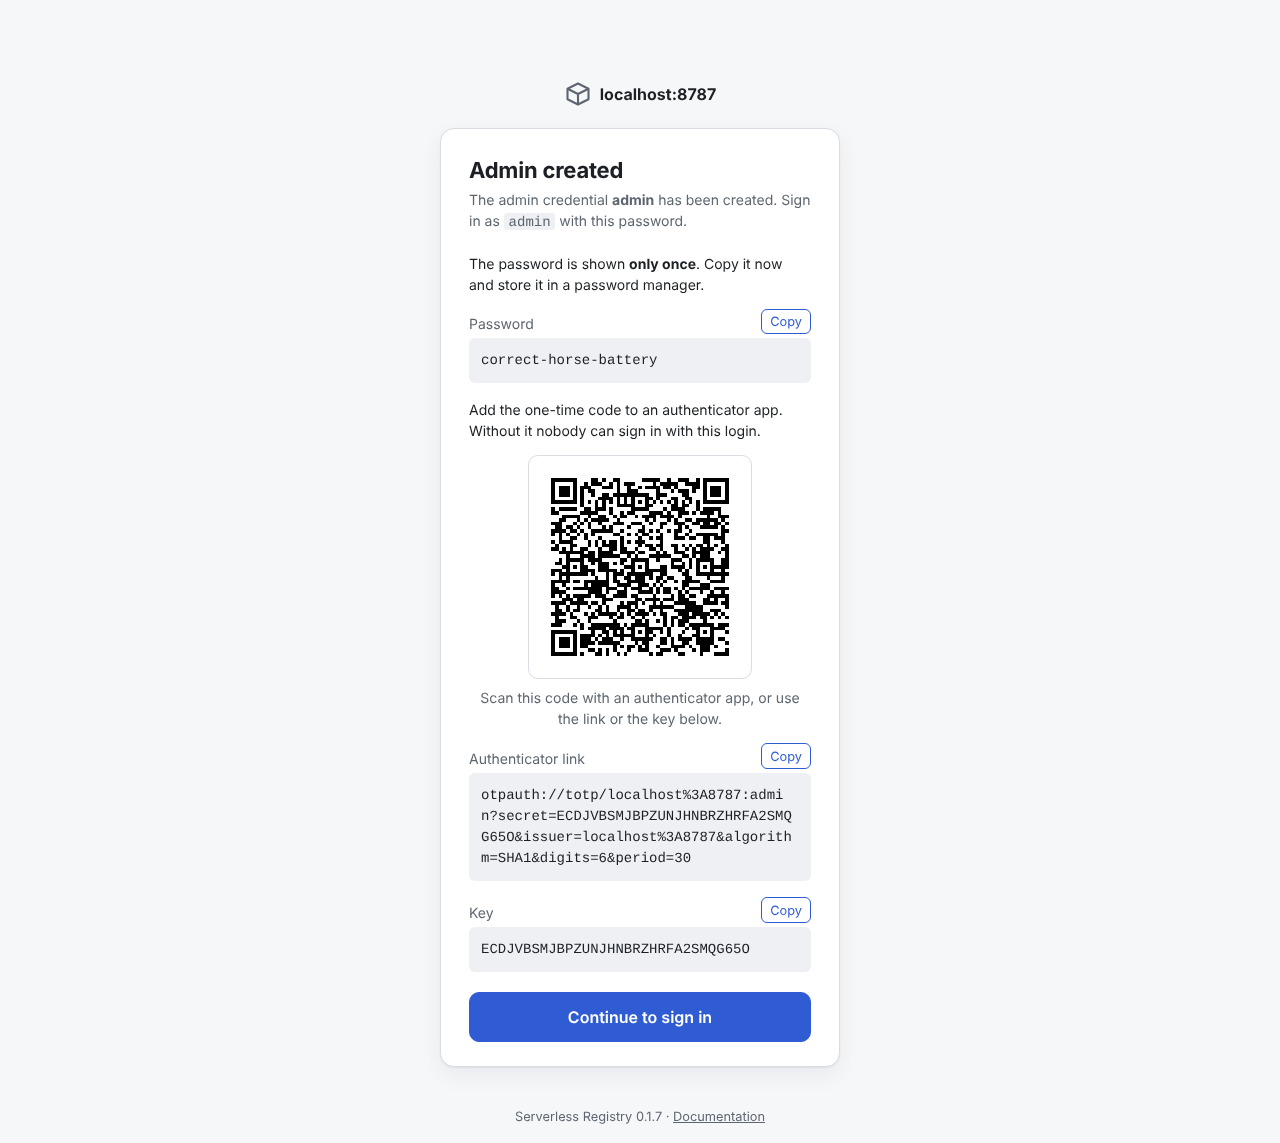
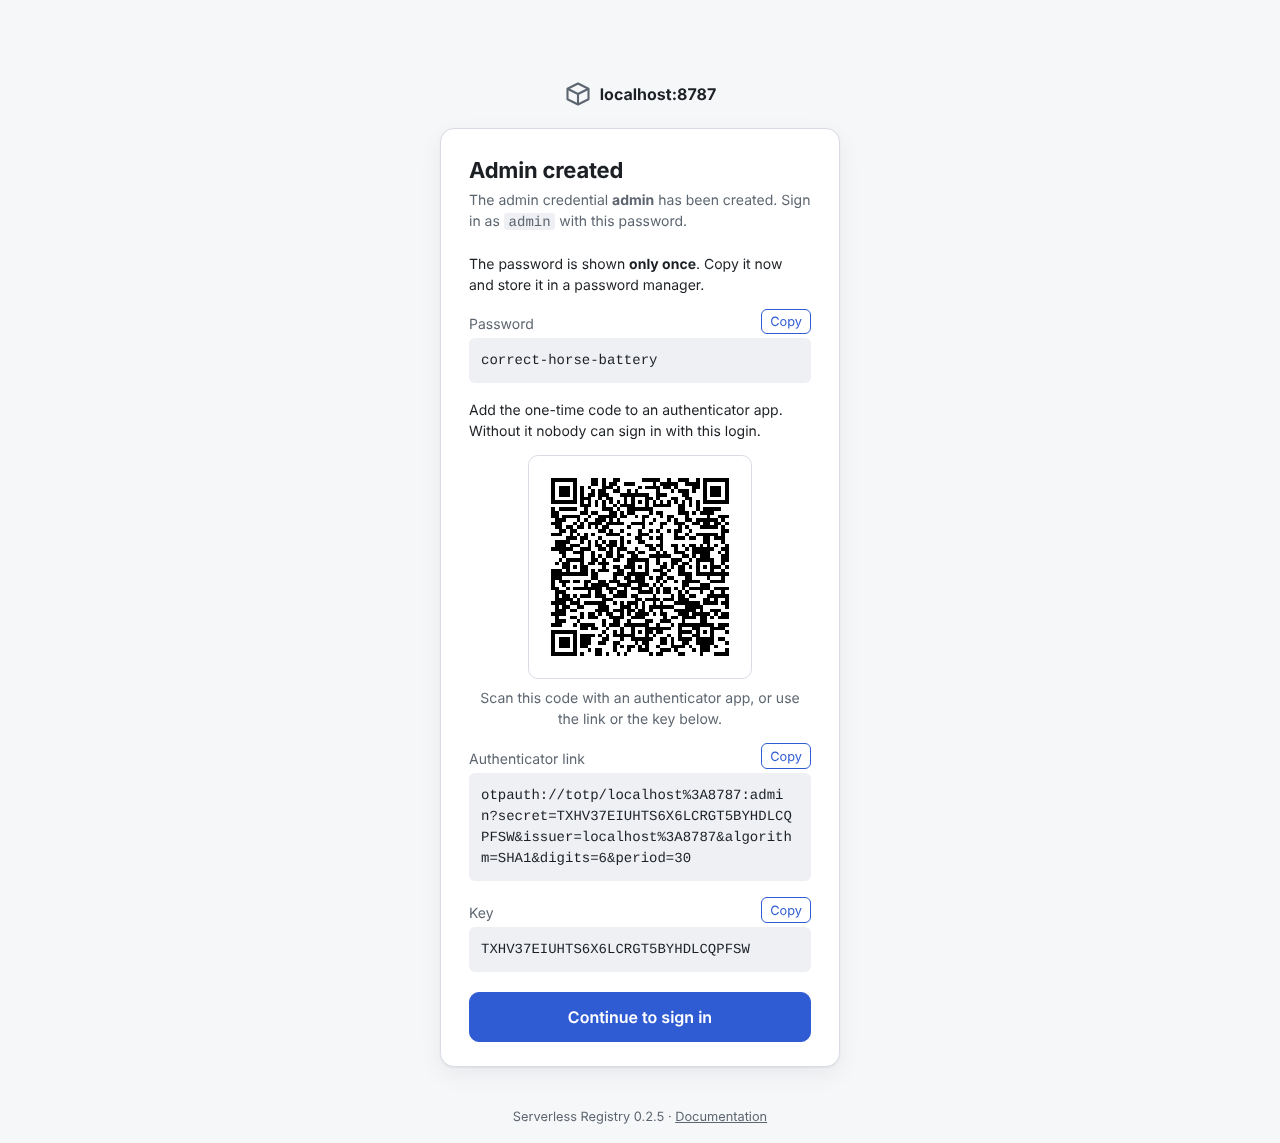
docs(serverless-registry): update for Worker 0.2.5, sreg 0.2.3 and actions 1.0.9
Worker: credential roles with per-role grants and scoped secrets, admin
approvals of yank and delete, MAX_PUBLISH_SCOPES, refreshed screenshots.
sreg: yank, delete, login --yank/--delete/--delete-package, whoami roles.
Actions: role and scope notes for authentication.

Claude-Session: https://claude.ai/code/session_01TECh4UxtXTf9EDSr9EPMjs

diff --git a/content/1.systems/serverless-registry/2.sreg-cli.md b/content/1.systems/serverless-registry/2.sreg-cli.md
@@ -17,7 +17,7 @@ system_url: /systems/serverless-registry
 `sreg` is the only way to publish a version to [Serverless Registry](/systems/serverless-registry). It packages the project,
 uploads the files straight to R2 through presigned URLs and commits the version through the registry's API. Published
 versions are immutable. It also downloads generic files and writes credentials for package managers, including GitHub Actions OIDC tokens.
-Administration (credentials, yank, delete) is done in the registry's web panel.
+It can also yank and delete versions (`sreg yank`, `sreg delete`); the rest of the administration (credentials, packages, settings) is done in the registry's web panel.
 
 ::u-button-group
 :u-button[GitHub Repository]{icon="bxl:github" href="https://github.com/kduma-OSS/serverless-registry-cli" target="_blank"}
@@ -91,7 +91,9 @@ A static token (`--token` / `REGISTRY_TOKEN`, or the credentials of the registry
 | [`sreg generic get`](#sreg-generic-get) | Download and verify files of a generic package version. |
 | [`sreg auth`](#sreg-auth) | Write registry credentials for a package manager, or print them. |
 | [`sreg login`](#sreg-login) | Sign in through the browser and print a short-lived token to export. |
-| [`sreg whoami`](#sreg-whoami) | Show the identity and grants of the current token. |
+| [`sreg whoami`](#sreg-whoami) | Show the roles and grants of the current token. |
+| [`sreg yank`](#sreg-yank) | Yank a version so it is no longer offered for new installs (admin). |
+| [`sreg delete`](#sreg-delete) | Delete a version, or a whole package (admin). |
 | [`sreg version`](#sreg-version) | Show the version of `sreg` and of the registry. |
 
 ### Common behaviour of `publish` commands
@@ -527,7 +529,7 @@ Details of every file format: [`docs/cli-auth.md`](https://github.com/kduma-OSS/
 ### `sreg login`
 
 ```text
-sreg login [--publish <ECO>:<PACKAGE>@<VERSION>]... [--no-browser] [--json]
+sreg login [--publish <ECO>:<PACKAGE>@<VERSION>]... | [--yank <ECO>:<PACKAGE>@<VERSION>]... | [--delete <ECO>:<PACKAGE>@<VERSION>]... [--delete-package <ECO>:<PACKAGE>]... [--no-browser] [--json]
 ```
 
 Signs in through the browser and prints a short-lived token to export, for several commands in a row (`eval "$(sreg login)"`).
@@ -537,6 +539,9 @@ It needs a registry credential with a `login` secret (a password and an optional
 | Option | Description |
 | --- | --- |
 | `--publish <ECO:PACKAGE@VERSION>` | Ask for a **publish** token for this package version (repeatable), e.g. `composer:acme/sdk@1.4.0` or `npm:@acme/sdk@2.0.0`. Without it the token is for downloading. |
+| `--yank <ECO:PACKAGE@VERSION>` | Ask for an **admin** token that may yank this package version (repeatable). Cannot be combined with `--publish` or `--delete`. Requires `sreg` 0.2.3 or newer. |
+| `--delete <ECO:PACKAGE@VERSION>` | Ask for an **admin** token that may delete this package version (repeatable). Cannot be combined with `--publish` or `--yank`. |
+| `--delete-package <ECO:PACKAGE>` | Ask for an **admin** token that may delete this whole package with every version (repeatable). Can be combined with `--delete`. |
 | `--no-browser` | Print the approval page instead of opening it (also `SREG_NO_BROWSER`). |
 
 How it works:
@@ -546,7 +551,8 @@ How it works:
 3. `sreg` polls until you approve or refuse and receives the token. A refusal, an expired session or a timeout fails the command with exit code `1`.
 
 The token is short-lived: a **pull token** (needs a `read` credential) lasts one hour, or longer when you tick "extended validity" (24 hours by default);
-a **publish token** lasts 15 minutes and works only for the listed versions - it is approved only when a `publish` credential's grants allow every one of them.
+a **publish token** lasts 15 minutes and works only for the listed versions - it is approved only when a credential's `publish` grants allow every one of them;
+an **admin token** (`--yank`, `--delete`, `--delete-package`) lasts 15 minutes and may only yank or delete exactly what the page showed - every other route answers `403` - and is approved only by a credential that holds the `admin` role through a `login` secret (a delete is shown with a warning, and a one-time code must be a recent one).
 The ecosystem in `--publish` ends at the first `:` (a Maven package is `group:artifact`) and the version starts after the last `@` (an npm scope starts with one).
 
 The same sign-in is available as `--login` on `sreg auth`, `sreg generic get` and every `publish` command, where the token is used directly:
@@ -575,25 +581,114 @@ The approval page looks like this (see the [Worker](/systems/serverless-registry
 
 Protocol details: [`docs/cli-auth.md`](https://github.com/kduma-OSS/serverless-registry-cli/blob/main/docs/cli-auth.md#--login-a-token-from-the-browser){:target="_blank"}.
 
+### `sreg yank`
+
+```text
+sreg yank <ECO> <NAME> <VERSION> [--oidc [--oidc-project <P>] | --login]
+```
+
+Yanks a version: it disappears from dependency resolution and is no longer offered for new installs, but its files stay downloadable,
+so existing lockfiles keep working. Needs a credential with the `admin` role (an `admin` token, or one of the ways below).
+Requires `sreg` 0.2.3 or newer.
+
+| Argument / option | Description |
+| --- | --- |
+| `<ECO>` | `composer`, `npm`, `cargo`, `nuget`, `generic`, `swift` or `maven`. |
+| `<NAME>` | Package name as in the registry. |
+| `<VERSION>` | The version to yank. |
+| `--oidc`, `--oidc-project` | Authenticate with a GitHub Actions OIDC token. `_` lets the registry find the project from the repository, an `admin` credential included. |
+| `--login` | Sign in through the browser and approve this one yank ([`sreg login`](#sreg-login)). |
+
+```text
+$ sreg yank composer acme/sdk 1.2.1
+Yanked composer acme/sdk 1.2.1; it is no longer offered for new installs.
+
+$ sreg yank composer acme/sdk 1.2.1      # with a publish-only token
+error: registry returned 403 (forbidden): This credential may not perform this operation.
+```
+
+With `--json` it prints the version as the registry describes it (`eco`, `name`, `version`, `published`, `yanked`, `files`).
+
+### `sreg delete`
+
+```text
+sreg delete <ECO> <NAME> [<VERSION> | --all] [--yes] [--oidc [--oidc-project <P>] | --login]
+```
+
+Deletes a version and its files (the version can be published again), or with `--all` the whole package with every version.
+Needs the `admin` role, like [`sreg yank`](#sreg-yank). Requires `sreg` 0.2.3 or newer.
+
+| Argument / option | Description |
+| --- | --- |
+| `<ECO>`, `<NAME>` | As for `yank`. |
+| `<VERSION>` | The version to delete; or use `--all`. |
+| `--all` | Delete the whole package with every version. |
+| `-y`, `--yes` | Do not ask for confirmation. Without a terminal, `--yes` is required. |
+| `--oidc`, `--oidc-project`, `--login` | As for `yank`; with `--login` the page shows the delete with a warning. |
+
+`sreg` asks for confirmation first (typing the package name for `--all`).
+
+```text
+$ sreg delete composer acme/sdk 1.2.1 < /dev/null
+error: confirmation required but stdin is not a terminal; pass --yes to confirm
+
+$ sreg delete composer acme/sdk 1.2.1 --yes
+Deleted composer acme/sdk 1.2.1; the version can be published again.
+```
+
+Deleting is permanent and consumers' lockfiles pointing at the version stop working. To delete in a pipeline without an admin secret,
+use `--oidc` with an `admin` credential that has a matching `gh` secret, or approve the operation yourself with `--login`:
+
+```text
+$ sreg delete composer acme/sdk 1.2.2 --login --no-browser --yes
+Requesting an admin token to DELETE:
+  composer acme/sdk 1.2.2
+Open this page, sign in and approve:
+  https://packages.example.com/authorize/<session>
+Waiting for the approval (Ctrl-C to cancel)...
+Approved: signed in as admin (admin); the token is valid until 2026-10-29T01:04:07.000Z.
+Deleted composer acme/sdk 1.2.2; the version can be published again.
+```
+
 ### `sreg whoami`
 
 ```text
 sreg whoami
 ```
 
-Shows the identity of the current token: the project, its kind and its grants (`GET /api/v1/whoami`). Useful to check that a token works and what it may do.
+Shows the identity of the current token: the project, the roles the token may use and the grants of each role (`GET /api/v1/whoami`).
+A token that has both `read` and `publish` shows a list of grants for each role. Useful to check that a token works and what it may do.
 
 ```text
 $ sreg whoami
-Project: shop-frontend
-Kind:    read
-Grants:
+Project: acme-sdk
+Roles:   read, publish
+Read grants:
   ECO       PACKAGE  VERSIONS  TRANSITIVE
-  composer  acme/*   ^1.0      yes
+  composer  acme/*   *         yes
   npm       @acme/*  *         yes
+Publish grants:
+  ECO       PACKAGE  VERSIONS
+  composer  acme/*   *
+  npm       @acme/*  *
+  cargo     acme-*   *
+  generic   tools/*  *
 ```
 
-With `--json`: `{ "project", "kind", "grants": [{ "eco", "package", "versions", "transitive" }] }` (`transitive` only for `read` credentials).
+The token's roles are the credential's roles within the scope of its secret. A login token also lists what it may do: the package versions
+of a publish token, or the operations of a yank or delete token:
+
+```text
+$ sreg whoami      # with the token from sreg login --yank ...
+Project: admin
+Roles:   admin
+Operations (this token may do only these):
+  yank composer acme/sdk 1.0.0
+  yank composer acme/sdk 1.1.0
+```
+
+With `--json`: `{ "project", "kind", "roles", "grants", "access": { "read": [...], "publish": [...] } }` (`kind` is the legacy view; `transitive` only for `read`
+grants), plus `scopes` for a publish login token and `ops` for a yank or delete login token.
 
 ### `sreg version`
 
@@ -606,8 +701,8 @@ Prints the version of `sreg`; with `--registry` (or `REGISTRY_URL`) also the reg
 
 ```text
 $ sreg version
-sreg 0.1.5
-registry 0.1.7 (schema 3, minimum client 0.1.0)
+sreg 0.2.3
+registry 0.2.5 (schema 4, minimum client 0.1.0)
 ```
 
 With `--json`: `{ "clientVersion", "registry": { "version", "minClientVersion", "schemaVersion" }, "compatible" }`.

diff --git a/content/1.systems/serverless-registry/1.worker.md b/content/1.systems/serverless-registry/1.worker.md
@@ -64,20 +64,22 @@ Optional variables (defaults apply while unset):
 | `APPEND_WINDOW_HOURS` | `24` | How long files may be appended to a generic version. |
 | `TOKEN_PREFIX` | empty | Fixed prefix (e.g. `srg_`) for issued tokens, so leaked ones can be found with grep. |
 | `LOGIN_TOKEN_EXTENDED_TTL_HOURS` | `24` | How long a pull token lasts when it is approved with "extended validity" (1 to 720); otherwise one hour. |
+| `MAX_PUBLISH_SCOPES` | `20` | Most package versions one publish login token can approve (1 to 100). |
 | `CHECK_UPDATES` | `true` | Settings page checks GitHub for a newer release once a day. |
 | `R2_BUCKET_NAME` | `serverless-registry` | Bucket name in presigned URLs. |
 
 ## Authentication
 
-Every credential is a project name with exactly one kind, a list of grants and one or more secrets:
+Every credential is a project name with one or more **roles**, a list of grants for each role and one or more secrets:
 
 - `read` - installs packages; its key token is safe to commit into the consumer's repository (`auth.json`, `.npmrc`, ...),
-- `publish` - publishes versions with `sreg`, usually from GitHub Actions; never reads,
-- `admin` - the panel and the administrative API; no grants.
+- `publish` - publishes versions with `sreg`, usually from GitHub Actions; a token that only publishes never reads,
+- `admin` - the panel and the administrative API (including yank and delete); no grants of its own, it sees every package.
 
-A grant is an ecosystem, a package name or `vendor/*` pattern and a version constraint in that ecosystem's syntax
-(`*` for all). `read` grants are transitive by default. Grants can be edited as rows or as text, one per line in the
-shorthand `eco:package[:versions[:transitive]]`.
+Roles can be combined in one credential, so that one project installs and publishes (`read` + `publish`, each with its own grants)
+or an administrator can also install or publish. A grant is an ecosystem, a package name or `vendor/*` pattern and a version
+constraint in that ecosystem's syntax (`*` for all). `read` grants are transitive by default. Grants can be edited as rows or
+as text, one per line in the shorthand `eco:package[:versions[:transitive]]`.
 
 A credential holds one or more **secrets**, each with an optional description:
 
@@ -87,19 +89,27 @@ A credential holds one or more **secrets**, each with an optional description:
 | `login` | A password and, optionally, a one-time code (TOTP) for an authenticator app. Used to sign in to the panel and to approve CLI operations in the browser (below). |
 | `gh` | Trusts a GitHub repository (optionally a ref, workflow and environment) so its Actions jobs authenticate with OIDC, with no stored secret. |
 
-A `publish` credential with a `gh` secret is the recommended setup for CI. See the
+With several roles, every secret has a **scope**: the roles it may use. The `key` you commit into a repository can stay
+`read`-only while the release workflow's `gh` secret is `publish`-only, and only a secret scoped to `admin` administers. Adding a role
+later never widens the secrets the credential already has - they keep the roles they had, and new secrets choose their scope.
+
+![Roles of a credential](/systems/serverless-registry/panel-credential-grants.png)
+
+A `gh` secret scoped to `publish` is the recommended setup for CI. The registry picks the credential by the role the request needs,
+so one repository can install and publish with OIDC. See the
 [deployment guide](https://github.com/kduma-OSS/serverless-registry-worker/blob/main/docs/deployment.md#a-publish-credential-for-github-actions-oidc-no-secret){:target="_blank"}.
 
 ### Logins for people
 
-A `read` or `publish` credential can also hold a `login` secret, so that people use the CLI instead of copying tokens around:
+Any credential can hold a `login` secret, so that people use the CLI instead of copying tokens around:
 [`sreg login`](/systems/serverless-registry/sreg-cli#sreg-login) and the `--login` option open a page of the registry
 (`/authorize/...`), where you sign in (or, when the browser is already signed in, only approve) and the CLI receives a
 short-lived signed token:
 
 - a **pull token** lasts one hour, or `LOGIN_TOKEN_EXTENDED_TTL_HOURS` hours when you tick "extended validity",
-- a **publish token** lasts 15 minutes and works only for the package versions you approved; it is issued only when the
-  credential's grants allow every one of them, and with a one-time code a recent one is required.
+- a **publish token** lasts 15 minutes and works only for the package versions you approved (at most `MAX_PUBLISH_SCOPES` of them); it is issued only when the
+  credential's grants allow every one of them, and with a one-time code a recent one is required,
+- an **admin token** for a [yank or delete](/systems/serverless-registry/sreg-cli#sreg-yank) lasts 15 minutes and may only perform exactly the operations you approved.
 
 Expiring the login secret ends its tokens and browser sessions. The Worker does not limit sign-in attempts - add a
 CloudFlare rate limiting rule for the path starting with `/authorize/`.
@@ -135,12 +145,16 @@ A signed session cookie keeps you signed in for 12 hours.
 ### Approving CLI operations
 
 When a CLI command runs with `--login` (or `sreg login`), the page it prints shows exactly what is requested -
-a pull token, or a publish token for named package versions. Sign in with a `login` secret, or just approve when you are
-already signed in:
+a pull token, a publish token for named package versions, or an admin token to yank or delete them. Sign in with a `login` secret,
+or just approve when you are already signed in:
 
 ![Sign in to approve a CLI operation](/systems/serverless-registry/panel-authorize-signin.png)
 
 ![Approve a publish token for one version](/systems/serverless-registry/panel-authorize-approve.png)
+
+A delete is shown with a warning, and an `admin` credential with a one-time code needs a fresh code to approve it:
+
+![Approve a delete](/systems/serverless-registry/panel-authorize-delete.png)
 
 ### Browsing packages (`read` credentials)
 
@@ -163,20 +177,22 @@ and shows how to install exactly that version.
 
 An admin gets three pages in the header.
 
-**Packages** - the same list with *Reindex* and *Delete* on each row; a package's page also lets you yank or delete its versions.
+**Packages** - the same list with *Reindex* and *Delete* on each row; a package's page also lets you yank or delete its versions. The same operations are available from the CLI with [`sreg yank` and `sreg delete`](/systems/serverless-registry/sreg-cli#sreg-yank).
 
 ![Packages (admin)](/systems/serverless-registry/panel-admin-packages.png)
 
-**Credentials** - every project in a table, plus a *New credential* form that shows the new token once.
+**Credentials** - every project in a table, plus a *New credential* form where you choose the roles, the first secret and the grants of each role. A new token or password is shown once.
 
 ![Credentials](/systems/serverless-registry/panel-admin-credentials.png)
 
-A credential has the tabs *Overview*, *Grants*, *Secrets* and *Danger zone*. Grants are an ecosystem, a package name or
-`vendor/*` pattern and a version constraint in that ecosystem's syntax; *Edit as text* shows them one per line to copy and paste in bulk:
+![New credential](/systems/serverless-registry/panel-new-credential.png)
+
+A credential has the tabs *Overview*, *Grants*, *Secrets* and *Danger zone*. The *Grants* tab has the read and publish grants (an ecosystem, a package name or
+`vendor/*` pattern and a version constraint in that ecosystem's syntax; *Edit as text* shows them one per line to copy and paste in bulk) and the three role switches shown above.
 
 ![Credential grants](/systems/serverless-registry/panel-credential-grants.png)
 
-Secrets are `key` tokens, `login` passwords (with an optional one-time code) or GitHub Actions `gh` entries (OIDC) that trust a repository, optionally restricted to a ref, workflow or environment. Each can have a description, be edited and be expired individually. A new secret's token or password is shown once:
+Secrets are `key` tokens, `login` passwords (with an optional one-time code) or GitHub Actions `gh` entries (OIDC) that trust a repository, optionally restricted to a ref, workflow or environment. Each can have a description and a scope (the roles it may use), be edited and be expired individually. A new secret's token or password is shown once:
 
 ![Credential secrets](/systems/serverless-registry/panel-credential-secrets.png)
 

diff --git a/content/1.systems/serverless-registry/3.github-actions.md b/content/1.systems/serverless-registry/3.github-actions.md
@@ -48,7 +48,7 @@ Main inputs:
 | --- | --- |
 | `ecosystem` | Required: `composer`, `npm`, `cargo`, `nuget`, `generic`, `swift` or `maven`. |
 | `registry` | Required: registry URL, exactly its `PUBLIC_URL`. |
-| `token` | Publish token. Empty: OIDC. |
+| `token` | Token whose scope includes `publish`. Empty: OIDC. |
 | `version` / `tag-prefix` | Explicit version, or take it from the tag with this prefix (monorepos). |
 | `path`, `workspace`, `package`, `project`, `from-dir`, `coords`, `scope` | Ecosystem specific selectors. |
 | `generic-files`, `generic-labels` | Files and labels for generic packages. |
@@ -62,7 +62,7 @@ Outputs: `name`, `version`, `url`, `skipped`.
 
 ### Authentication
 
-Without secrets, using GitHub Actions OIDC (the registry needs a `publish` credential with a `gh` secret trusting the repository):
+Without secrets, using GitHub Actions OIDC. The registry needs a credential with the `publish` role and a `gh` secret scoped to `publish` that trusts the repository. One credential may also hold the `read` role with a separate `gh` secret scoped to `read`: the registry picks the entry by the role the command needs, so the same repository can install and publish without `oidc-project`:
 
 ```yaml
 permissions:
@@ -76,7 +76,7 @@ steps:
       registry: https://packages.example.com
 ```
 
-Alternatively pass a `token`, or put credentials into the `registry` URL (store it as a secret).
+Alternatively pass a `token` whose scope includes `publish`, or put credentials into the `registry` URL (store it as a secret). `oidc-project` is only needed when several credentials hold the needed role for the repository.
 
 ### Monorepos
 
@@ -137,7 +137,7 @@ Lets package managers install from the registry, right before the install step:
 - run: composer install
 ```
 
-Supports `composer`, `npm`, `cargo`, `nuget`, `swift` and `maven`; takes a read `token` or OIDC. Optional inputs:
+Supports `composer`, `npm`, `cargo`, `nuget`, `swift` and `maven`; takes a `token` whose scope includes `read`, or OIDC. Optional inputs:
 `write` (credentials file), `registry-name`, `npm-scope`, `cargo-config`, `swift-scope`. Output: `file`.
 
 ## Get

diff --git a/content/1.systems/serverless-registry/0.index.md b/content/1.systems/serverless-registry/0.index.md
@@ -51,12 +51,12 @@ Only the ecosystems you need have to be enabled (`ECOSYSTEMS` variable of the Wo
 
 ## Features
 
-- **Credentials with grants** - one named credential per consumer, pipeline or administrator, of exactly one kind (`read`, `publish` or `admin`), with grants on packages (`acme/*`) and version ranges.
+- **Credentials with roles and grants** - one named credential per consumer, pipeline or administrator, with the roles `read`, `publish` and `admin` (alone or combined), grants on packages (`acme/*`) and version ranges for each role, and secrets that are scoped to the roles they may use.
 - **Transitive access** - a `read` grant also opens the versions of the registry's packages that the granted versions depend on.
 - **GitHub Actions OIDC** - publish and install without stored secrets.
 - **Sign in through the browser** - people use a login (password and optional one-time code) and `sreg login` to get short-lived tokens, approved per operation, instead of copying tokens around.
 - **Immutable versions** - a published version never changes; an admin can yank or delete it.
-- **Admin panel** - credentials, grants, packages, versions and settings, without any framework or external resources.
+- **Admin panel and CLI** - credentials, grants, packages, versions and settings in a panel without any framework or external resources; versions can also be yanked or deleted with `sreg`, with an approval in the browser.
 - **Easy updates** - a GitHub workflow in your own repository updates the Worker from upstream and keeps your bindings.
 - **Nothing to run** - one Worker, one R2 bucket and one KV namespace; the free plan is enough for a small team.
 
